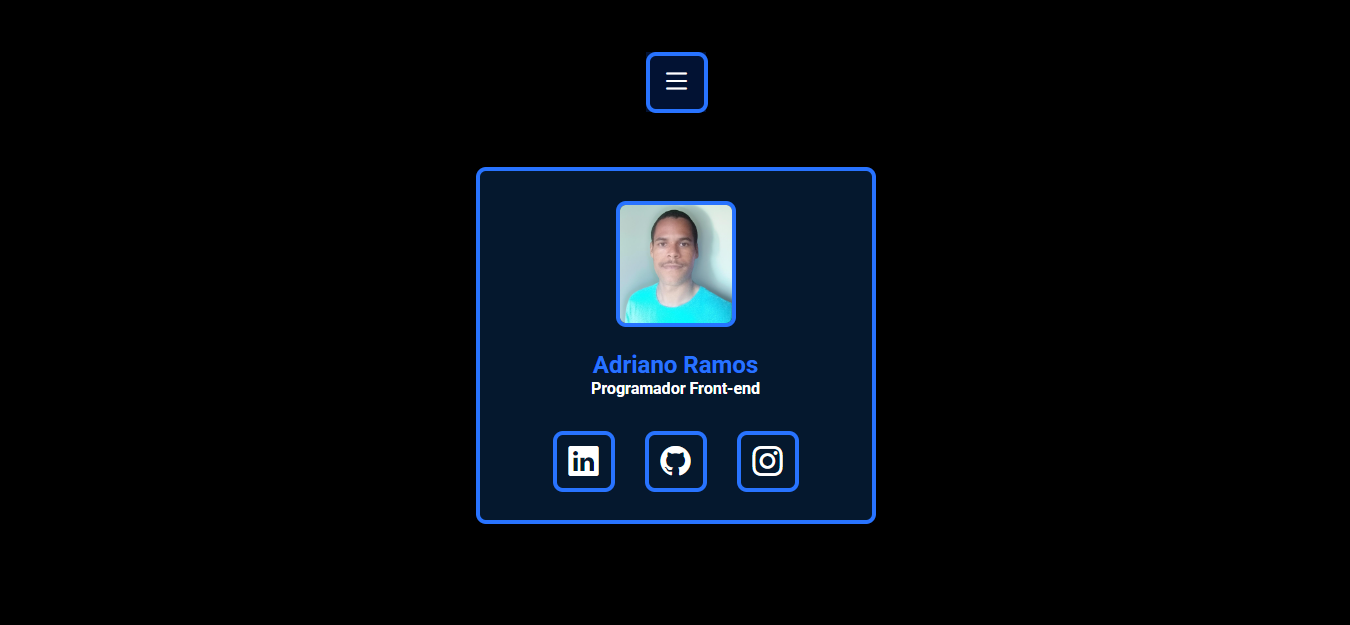
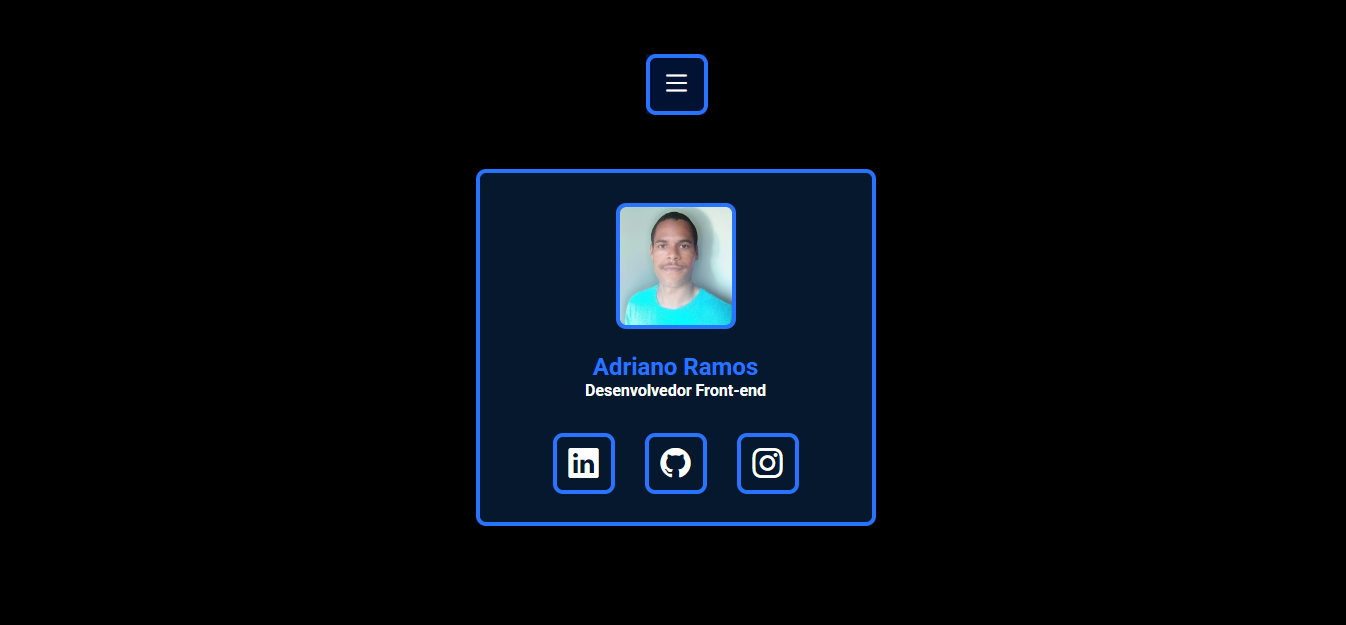
editei o readme e mudei a captura de tela do projeto

diff --git a/README.md b/README.md
@@ -4,7 +4,7 @@
 
 
 ## Sobre o Projeto
-Este é o meu portfólio como programador. Ele foi criado para apresentar meus projetos, minhas habilidades e meus contatos.
+Este é o meu portfólio como desenvolvedor, desenvolvido para apresentar meus projetos, minhas habilidades e meus contatos.
 
 
 
